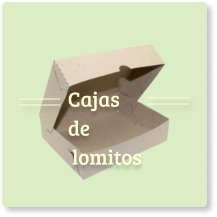
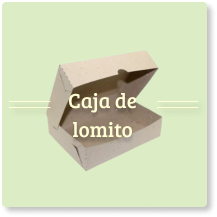
caja de lomito modificado

Changed region(s): [[0.0553, 0.2212, 0.9124, 0.8295], [0.553, 0.3594, 0.6359, 0.3871], [0.6083, 0.2212, 0.6359, 0.2488]]

diff --git a/css/style.css b/css/style.css
@@ -1,82 +1,104 @@
-@import url('https://fonts.googleapis.com/css2?family=Roboto+Slab&display=swap');
-@import url('https://fonts.googleapis.com/css2?family=Kanit:wght@300&display=swap');
+@import url("https://fonts.googleapis.com/css2?family=Roboto+Slab&display=swap");
+@import url("https://fonts.googleapis.com/css2?family=Kanit:wght@300&display=swap");
 @import url("https://cdn.jsdelivr.net/npm/bootstrap-icons@1.10.3/font/bootstrap-icons.css");
-@import url('https://fonts.googleapis.com/css2?family=Abril+Fatface&display=swap');
-@import url('https://fonts.googleapis.com/css2?family=Libre+Baskerville&display=swap');
+@import url("https://fonts.googleapis.com/css2?family=Abril+Fatface&display=swap");
+@import url("https://fonts.googleapis.com/css2?family=Libre+Baskerville&display=swap");
 body {
-  font-family: 'Roboto Slab', serif;
+  font-family: "Roboto Slab", serif;
 }
 main {
   margin-top: 76px;
 }
-h2, .envasesmb{
-  font-family: 'Libre Baskerville', serif;
+h2,
+.envasesmb {
+  font-family: "Libre Baskerville", serif;
   font-weight: 400;
 }
-.zoom:hover{
+.zoom:hover {
 }
-.imgZoom{
+.imgZoom {
   filter: grayscale(20%);
 }
-.imgZoom:hover{
+.imgZoom:hover {
   filter: grayscale(0%);
   transform: scale(1.05);
   transition: all 0.5s;
 }
-.borde-inf-ul{
+.borde-inf-ul {
   border-radius: 0 0 0 5px;
 }
-.letrasUl{
+.letrasUl {
   font-size: 0.85rem;
 }
 
-
 .slide {
   height: 463px;
-  object-fit:cover;
+  object-fit: cover;
 }
-.slide1{
-  background-image:linear-gradient(0deg,rgba(0,0,0,0.3),rgba(0,0,0,0.3)), url(../assets/slide1.jpg);
+.slide1 {
+  background-image: linear-gradient(
+      0deg,
+      rgba(0, 0, 0, 0.3),
+      rgba(0, 0, 0, 0.3)
+    ),
+    url(../assets/slide1.jpg);
   background-position: center;
   background-repeat: no-repeat no-repeat;
   background-size: cover;
-
 }
-.slide2{
-  background-image:linear-gradient(0deg,rgba(0,0,0,0.3),rgba(0,0,0,0.3)), url(../assets/slide2.jpg);
+.slide2 {
+  background-image: linear-gradient(
+      0deg,
+      rgba(0, 0, 0, 0.3),
+      rgba(0, 0, 0, 0.3)
+    ),
+    url(../assets/slide2.jpg);
   background-position: center;
   background-repeat: no-repeat no-repeat;
   background-size: cover;
-
 }
-.slide3{
-  background-image:linear-gradient(0deg,rgba(0,0,0,0.3),rgba(0,0,0,0.3)), url(../assets/slide3.jpg);
+.slide3 {
+  background-image: linear-gradient(
+      0deg,
+      rgba(0, 0, 0, 0.3),
+      rgba(0, 0, 0, 0.3)
+    ),
+    url(../assets/slide3.jpg);
   background-position: center;
   background-repeat: no-repeat no-repeat;
   background-size: cover;
-
 }
-.banner{
-    background-image:linear-gradient(0deg,rgba(0,0,0,0.3),rgba(0,0,0,0.3)), url(../assets/nurestrosProductos.jpg);
-    background-position: center;
-    background-repeat: no-repeat no-repeat;
-    background-size: cover;
-    background-attachment: fixed;
+.banner {
+  background-image: linear-gradient(
+      0deg,
+      rgba(0, 0, 0, 0.3),
+      rgba(0, 0, 0, 0.3)
+    ),
+    url(../assets/nurestrosProductos.jpg);
+  background-position: center;
+  background-repeat: no-repeat no-repeat;
+  background-size: cover;
+  background-attachment: fixed;
 }
-.queHacemos{
-    background-image:linear-gradient(0deg,rgba(0,0,0,0.3),rgba(0,0,0,0.3)), url(../assets/queHacemos.jpg);
-    background-position: center;
-    background-repeat: no-repeat no-repeat;
-    background-size: cover;
-    background-attachment: fixed;
+.queHacemos {
+  background-image: linear-gradient(
+      0deg,
+      rgba(0, 0, 0, 0.3),
+      rgba(0, 0, 0, 0.3)
+    ),
+    url(../assets/queHacemos.jpg);
+  background-position: center;
+  background-repeat: no-repeat no-repeat;
+  background-size: cover;
+  background-attachment: fixed;
 }
-.cursor-pointer:hover{
-  cursor:pointer;
+.cursor-pointer:hover {
+  cursor: pointer;
 }
-.cursor-default{
+.cursor-default {
   cursor: default;
 }
-.gastronomia{
+.gastronomia {
   background: url(../assets/fondoGastronomia.jpg);
   background-position: center;
   background-repeat: no-repeat no-repeat;
@@ -84,23 +106,29 @@ h2, .envasesmb{
   background-attachment: fixed;
 }
 
-.cardsZoom{
-  filter:grayscale(50%);
+.cardsZoom {
+  filter: grayscale(50%);
 }
-.cardsZoom:hover{
-  filter:grayscale(0%);
+.cardsZoom:hover {
+  filter: grayscale(0%);
 }
 
-@media all and (min-width: 768px) and (max-width: 991px){
+@media all and (min-width: 768px) and (max-width: 991px) {
   .slide {
     height: 310px;
-    object-fit:cover;
+    object-fit: cover;
+  }
+  .cardsZoom {
+    filter: grayscale(0%);
   }
 }
 
-@media all and (max-width: 767px){
-    .slide {
-      height: 550px;
-      object-fit:cover;
-    }
+@media all and (max-width: 767px) {
+  .slide {
+    height: 550px;
+    object-fit: cover;
+  }
+  .cardsZoom {
+    filter: grayscale(0%);
+  }
 }

diff --git a/index.html b/index.html
@@ -525,50 +525,80 @@
       <section class="container-fluid mb-4 gastronomia py-5 mt-5">
         <div class="container py-5">
           <!-- Fila 1 -->
-          <article class="d-flex flex-wrap flex-md-nowrap justify-content-md-start" 
-          data-aos="zoom-in"
-          data-aos-duration="1900">
+          <article
+            class="d-flex flex-wrap flex-md-nowrap justify-content-md-start"
+            data-aos="zoom-in"
+            data-aos-duration="1900"
+          >
             <aside class="text-center">
               <img src="./assets/Group 15.png" alt="" class="w-100" />
             </aside>
             <article class="d-flex mt-1 mt-md-0">
               <aside class="text-center">
-                <img src="./assets/Group 21.png" alt="" class="w-100 cardsZoom" />
+                <img
+                  src="./assets/Group 21.png"
+                  alt=""
+                  class="w-100 cardsZoom"
+                />
               </aside>
               <aside class="text-center">
-                <img src="./assets/Group 12.png" alt="" class="w-100 cardsZoom" />
+                <img
+                  src="./assets/Group 12.png"
+                  alt=""
+                  class="w-100 cardsZoom"
+                />
               </aside>
             </article>
           </article>
           <!-- Fila 2 -->
-          <article class="d-flex mt-5 flex-wrap flex-md-nowrap justify-content-md-end" 
+          <article
+            class="d-flex mt-5 flex-wrap flex-md-nowrap justify-content-md-end"
             data-aos="zoom-in"
-            data-aos-duration="1900">
+            data-aos-duration="1900"
+          >
             <aside class="text-center order-md-1">
               <img src="./assets/Group 17.png" alt="" class="w-100" />
             </aside>
             <article class="d-flex order-md-0 mt-1 mt-md-0">
               <aside class="text-center">
-                <img src="./assets/Group 11.png" alt="" class="w-100 cardsZoom" />
+                <img
+                  src="./assets/Group 11.png"
+                  alt=""
+                  class="w-100 cardsZoom"
+                />
               </aside>
               <aside class="text-center">
-                <img src="./assets/Group 20.png" alt="" class="w-100 cardsZoom" />
+                <img
+                  src="./assets/Group 20.png"
+                  alt=""
+                  class="w-100 cardsZoom"
+                />
               </aside>
             </article>
           </article>
           <!-- Fila 3 -->
-          <article class="d-flex mt-5 flex-wrap flex-md-nowrap justify-content-md-start" 
+          <article
+            class="d-flex mt-5 flex-wrap flex-md-nowrap justify-content-md-start"
             data-aos="zoom-in"
-            data-aos-duration="1900">
+            data-aos-duration="1900"
+          >
             <aside class="text-center">
               <img src="./assets/Group 16.png" alt="" class="w-100" />
             </aside>
             <article class="d-flex mt-1 mt-md-0">
               <aside class="text-center">
-                <img src="./assets/Group 18.png" alt="" class="w-100 cardsZoom" />
+                <img
+                  src="./assets/Group 18.png"
+                  alt=""
+                  class="w-100 cardsZoom"
+                />
               </aside>
               <aside class="text-center">
-                <img src="./assets/Group 19.png" alt="" class="w-100 cardsZoom" />
+                <img
+                  src="./assets/Group 19.png"
+                  alt=""
+                  class="w-100 cardsZoom"
+                />
               </aside>
             </article>
           </article>
